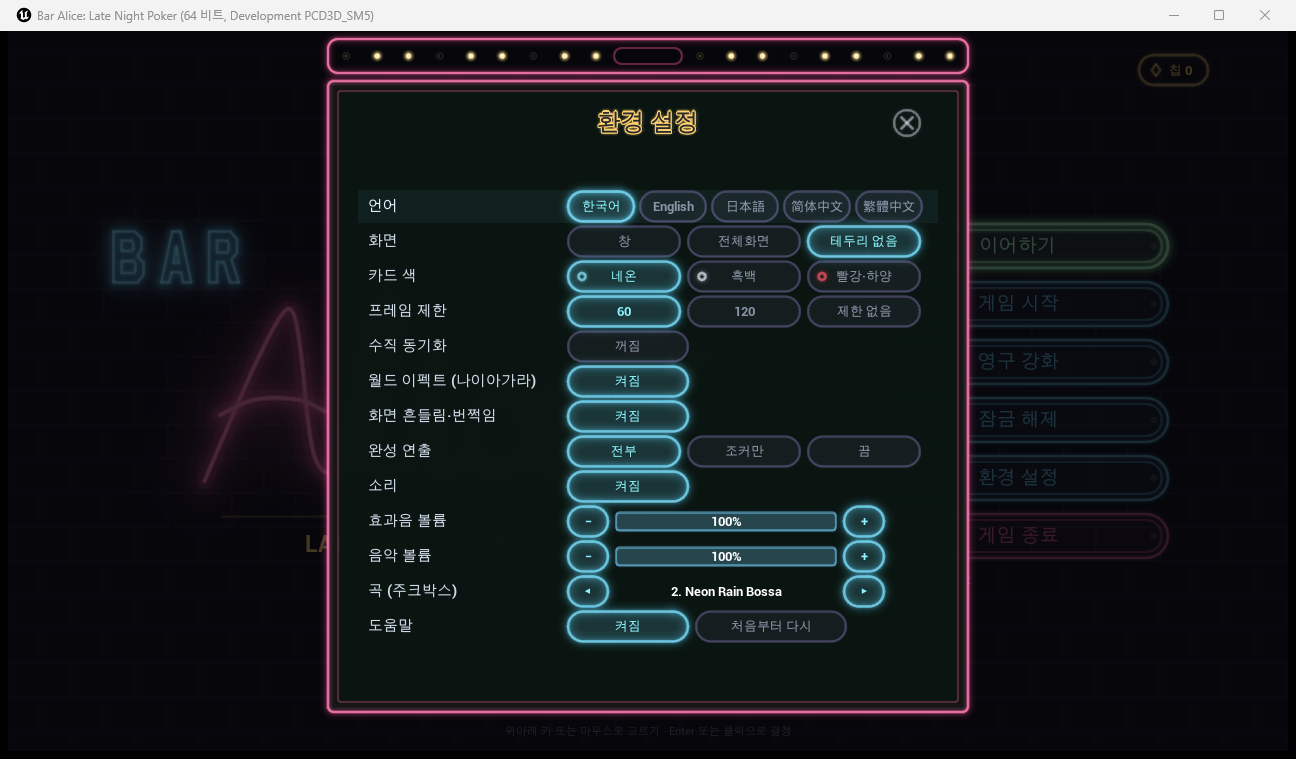
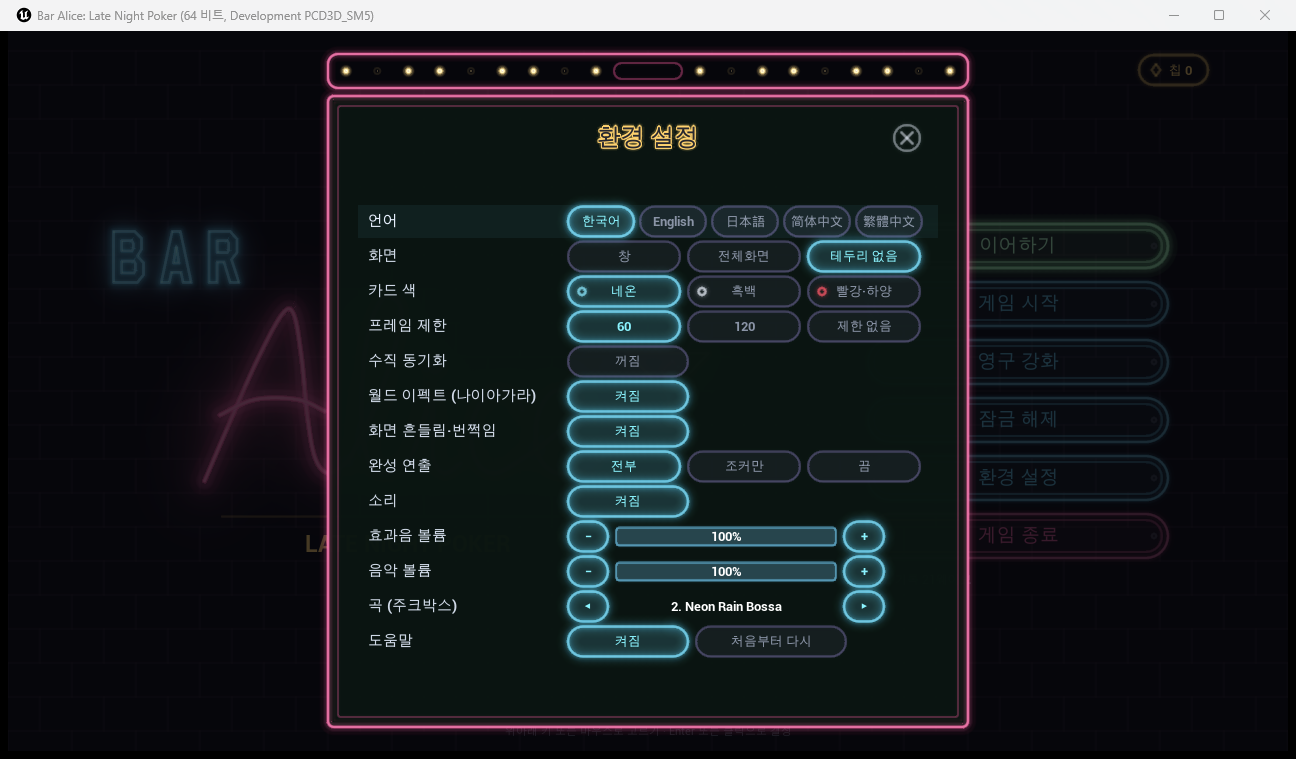
환경 설정 창 화면 위아래 가운데로 (D-396)

Changed region(s): [[0.2778, 0.2424, 0.7099, 0.8788], [0.2469, 0.0303, 0.7716, 0.2121], [0.2469, 0.9091, 0.7716, 0.9697]]

diff --git a/Source/ProjectB/PDBoardDraw.h b/Source/ProjectB/PDBoardDraw.h
@@ -748,8 +748,8 @@ inline const TCHAR* MenuItemName(int I)
 // 설정 창 (D-110): 줄마다 이름 + 버튼
 enum class ESetRow : uint8_t { Lang, Window, CardTheme, Frame, VSync, WorldFx, Shake, Cine, Sound, Volume, Music, Track, Help, Count }; // 닫기 줄은 뺐다 → 오른쪽 위 ⓧ 버튼 (D-384) // Track: 주크박스 곡 ◀ 이름 ▶ (D-319) // Cine: 완성 연출 전부/조커만/끔 (D-314) // Help: 도움말 켜기·처음부터 (D-217)
 constexpr float SetW = 560.f, SetRowH = 33.f, SetRowGap = 2.f, SetLabelW = 200.f, SetBtnH = 30.f;
-// D-395: 제목 아래 · 맨 아래에 여백 (38 → 33 → 23씩). 창 윗변은 35 (전구 가로대 윗변 8, 칠판 아랫변 681)
-constexpr float SetX = DesignW / 2.f - SetW / 2.f, SetY0 = 159.f; // 첫 줄 (D-159 140 → D-394 150 → D-395 159)
+// D-395: 제목 아래 · 맨 아래에 여백 (38 → 33 → 23씩). D-396: 전구 가로대 윗변 ~ 칠판 아랫변(높이 673)이 화면 위아래 가운데 (23 ~ 696)
+constexpr float SetX = DesignW / 2.f - SetW / 2.f, SetY0 = 174.f; // 첫 줄 (D-159 140 → D-394 150 → D-395 159 → D-396 174)
 constexpr float SetBoxX = SetX - 40.f, SetBoxY = SetY0 - 124.f, SetBoxW = SetW + 80.f; // 창 윗변 35 (D-392 · D-394 49 에서 14 올림), 양옆 10씩 넓힘 (D-395)
 constexpr float SetBoxH = (int)ESetRow::Count * (SetRowH + SetRowGap) + 191.f;
 inline float SetRowY(int Row) { return SetY0 + Row * (SetRowH + SetRowGap); }

diff --git a/docs/05-decision-log.md b/docs/05-decision-log.md
@@ -400,3 +400,4 @@
 | D-393 | 2026-11-17 | **환경 설정 창 = 세워 둔 칠판 간판** (시안 tools/neon/settings_board_mock.py B, docs/images/settings-1117): 주크박스 아치(D-293)를 걷고, 위에 손잡이 구멍이 뚫린 가로대(핫핑크 테 + 전구 9개씩 두 줄, 꺼진 전구가 돌아감) + 아래 핫핑크 두 겹 테 칠판(아주 어두운 초록 바탕 0a1511). 시안의 양옆 벌어진 다리 · 버팀대 · 분필 받침 같은 아래 선은 사용자 요청으로 뺌. 줄 배치 · 선택지 색 · 흰 닫기 ⓧ 는 그대로, 제목 "환경 설정" 은 칠판 맨 위. 화면 확인용 시험 스위치 -pdsettings (쉬핑 제외, 시작하면 설정 창이 열린 채) | 사용자: 전구 · 배치 · 색은 유지하고 네모나게, 세워 놓는 칠판 메뉴판 느낌 → 2번 시안, 양옆 사선 · 밑 선 지우기 | A 네모 창, 다리 있는 입간판 |
 | D-394 | 2026-11-17 | 환경 설정 칠판 간판 다듬기: 위 전구 가로대를 칠판과 같은 너비로, 제목 "환경 설정" 을 내려 닫기 ⓧ 와 같은 높이(칠판 윗변 + 42)에 나란히, 제목과 첫 줄 사이를 띄우려 줄 전체를 10 내리고 창 높이 +10 (SetY0 140 → 150, 창 윗변 49 그대로) | 사용자: 전구 박스 아래와 크기 맞추기 · 제목 너무 위, 내리고 X 와 정렬 · 공간 부족하면 늘려도 됨 | 그대로 둠 |
 | D-395 | 2026-11-17 | 환경 설정 칠판: 제목 아래와 맨 아래에 여백을 넣음 — 처음 38씩 → 사용자 요청으로 33 → 23씩 (첫 줄 SetY0 150 → 159, 창 높이 +46). 창 전체를 14 올림 (전구 가로대 윗변 22 → 8, 칠판 아랫변 681), 양옆도 10씩 넓힘 (창 너비 620 → 640, 전구 가로대도 같이) | 사용자: 빨간 박스만큼 여백 (제목 아래 · 맨 아래) | 줄 간격 줄이기 |
+| D-396 | 2026-11-17 | 환경 설정 창(전구 가로대 윗변 ~ 칠판 아랫변, 높이 673)을 화면 위아래 가운데로: 15 내림 (가로대 8 → 23, 칠판 아랫변 681 → 696). 가로는 이미 가운데 (SetX = 640 - 280) | 사용자: 환경설정창 위치 가운데로 | 그대로 둠 |
